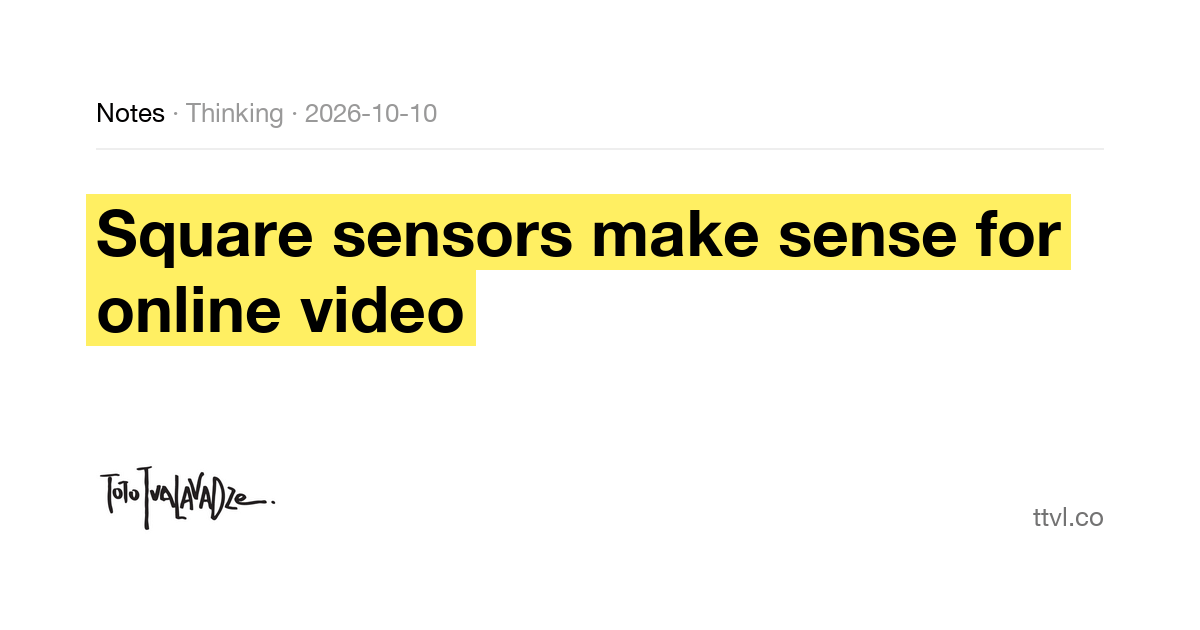
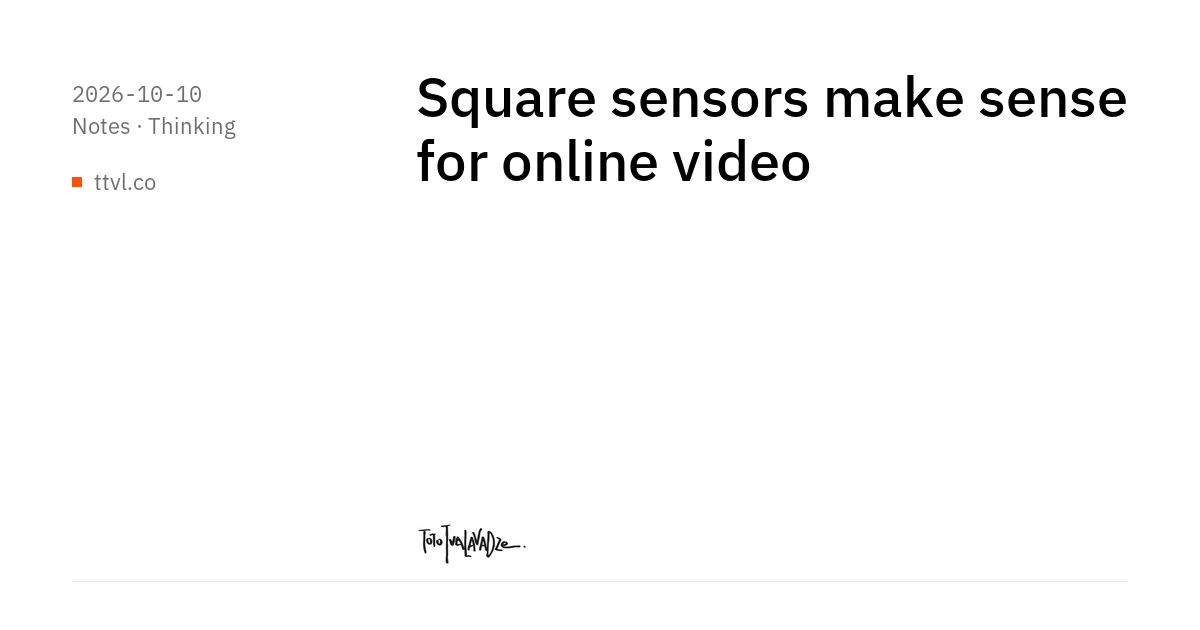
feat(design): the square-crops diagram in Panel
Rebased on main, which brought the square-sensors note. Its screen
ratios are now one segmented control of radio keys, the frame a figure
tile, the legend and selection in the label voice, and its social card
is rendered in Plex. AGENTS.md carries main's notes on the data file
and the shortcode.

diff --git a/assets/scss/sections/_square-crops.scss b/assets/scss/sections/_square-crops.scss
@@ -1,9 +1,11 @@
-// A diagram for the square-sensors note. Native radio controls switch
-// screen ratios without JavaScript. The shortcode derives the example
-// crops from one point of interest, keeping each within the source;
-// its square stays within the prose measure and carries no scaled text.
-// Without CSS or :has support, readers get the ordinary image instead.
-// Interpolation keeps Hugo's LibSass from parsing the newer selector() syntax.
+// The square-crops diagram (the square-sensors note): the screen ratios
+// as one segmented control of radio keys (components/_control.scss), a
+// 320 px square frame on the figure tile (surface, 1 px edge, radius 2)
+// with the grid, the source, the chosen crop in the highlight, and the
+// point of interest in ink; the chosen ratio named under it in the label
+// voice. Native radios switch the crop without JavaScript. Without CSS or
+// :has support (and in feeds and print), readers get the plain image.
+// Interpolation keeps Hugo's LibSass from parsing the selector() syntax.
 @supports #{"selector(:has(input:checked))"} {
   .square-crops[hidden] {
     display: block;
@@ -16,56 +18,36 @@
 
 .square-crops {
   fieldset {
-    border: 0;
-    padding: 0;
-    margin: 0;
     min-width: 0;
-    max-width: $max-width-readable;
+    max-width: $max-width-measure;
+    margin: 0;
+    padding: 0;
+    border: 0;
   }
 
   legend {
-    @include type-small;
     padding: 0;
-    color: var(--ink-muted);
+    margin-bottom: $space-2;
+    @include type-meta;
+    color: var(--ink-faint);
   }
 
   &__controls {
-    display: flex;
-    flex-wrap: wrap;
-    gap: 0 $space-4;
     margin-bottom: $space-3;
-
-    label {
-      display: flex;
-      align-items: center;
-      gap: $space-2;
-      min-height: $control-height;
-      cursor: pointer;
-      @include type-small;
-    }
-
-    input {
-      margin: 0;
-      accent-color: var(--ink);
-    }
-
-    input:checked + span {
-      text-decoration: underline;
-      text-underline-offset: $space-1;
-    }
   }
 
   &__frame {
-    // Diagram geometry: a 320px square on wider pages, fluid on phones.
-    max-width: 320px;
-    padding: $space-1; // keeps boundary strokes inside the SVG's wrapper
+    max-width: 320px; // the diagram's square
+    padding: $space-1; // keeps the boundary strokes inside the tile
+    border: 1px solid var(--edge);
+    border-radius: $radius;
+    background: var(--surface);
 
     svg {
       display: block;
       width: 100%;
       height: auto;
       overflow: visible;
-      background: var(--surface);
     }
 
     path,
@@ -101,8 +83,9 @@
   }
 
   &__selection {
-    @include type-small;
     margin-top: $space-2;
+    @include type-meta;
+    color: var(--ink-faint);
   }
 
   [data-crop] {

diff --git a/assets/scss/components/_control.scss b/assets/scss/components/_control.scss
@@ -59,7 +59,9 @@
 }
 
 // A segmented control: joined keys like the strip on one 2 px ink shadow;
-// the pressed key is ink.
+// the pressed key is ink. The keys are buttons (the viewers) or labels
+// around radio inputs (the square-crops ratios); a checked radio presses
+// its label.
 .segmented {
   display: inline-flex;
   border-radius: $radius;
@@ -67,12 +69,26 @@
   margin: 0 $shadow-quiet $shadow-quiet 0;
   transition: transform $t-press, box-shadow $t-press;
 
-  &:has(button:active:not(:disabled)) {
+  &:has(button:active:not(:disabled)),
+  &:has(label:active) {
     transform: translate($shadow-quiet, $shadow-quiet);
     box-shadow: none;
   }
 
-  button {
+  // The radio itself stays in the tree for the keyboard and screen readers.
+  label input {
+    position: absolute;
+    width: 1px;
+    height: 1px;
+    margin: 0;
+    padding: 0;
+    overflow: hidden;
+    clip: rect(0 0 0 0);
+    white-space: nowrap;
+  }
+
+  button,
+  label {
     min-height: $control-height-quiet;
     padding: 3px $space-3;
     margin: 0 0 0 -1px;
@@ -99,9 +115,18 @@
     }
 
     &[aria-pressed="true"],
-    &[aria-pressed="true"]:hover:not(:disabled) {
+    &[aria-pressed="true"]:hover:not(:disabled),
+    &:has(input:checked),
+    &:has(input:checked):hover {
       background: var(--ink);
       color: var(--ground);
+    }
+
+    &:has(input:focus-visible) {
+      position: relative;
+      z-index: 1;
+      outline: 2px solid var(--signal);
+      outline-offset: 2px;
     }
 
     &:disabled {

diff --git a/layouts/shortcodes/square-crops.html b/layouts/shortcodes/square-crops.html
@@ -7,11 +7,13 @@
 {{- $pointY := $diagram.point.y -}}
 {{- $crops := $diagram.crops -}}
 {{/* Hidden unless the stylesheet enables the interaction. RSS strips this
-     figure and keeps the plain image below; no output-format state is shared. */}}
+     figure and keeps the plain image below; no output-format state is shared.
+     The ratios are one segmented control of radio keys; the frame is a
+     figure tile. assets/scss/sections/_square-crops.scss. */}}
 <figure class="square-crops" hidden>
   <fieldset aria-describedby="{{ $id }}-caption">
     <legend>Screen aspect ratio</legend>
-    <div class="square-crops__controls">
+    <div class="square-crops__controls segmented">
       {{- range $index, $crop := $crops }}
       <label>
         <input type="radio" name="{{ $id }}" value="{{ .key }}"{{ if eq $index 0 }} checked{{ end }}>

diff --git a/AGENTS.md b/AGENTS.md
@@ -63,7 +63,7 @@ The A–Z index ignores the initial English articles `A`, `An`, and `The` when s
 - The `email` output format is declared globally, while every Flaneur dispatch currently opts into `HTML` and `email` in its frontmatter.
 - Goldmark unsafe rendering is enabled because content includes trusted inline HTML.
 - The custom RSS template includes Log, Darkroom, Bookbinding, Notes, Flaneur, Project Humane, and Obsidian content. Research stays out of it and publishes its own feeds through `layouts/research/rss.xml`: `/research/index.xml` for every stream and `/research/<stream>/index.xml` for one. The hub and each stream opt in with `outputs: ["HTML", "RSS"]`.
-- `data/` is currently unused except for `.gitkeep`.
+- `data/square-crops.json` supplies the point of interest and aspect ratios shared by the square-crops diagram and its static image renderer.
 
 ### Templates and assets
 
@@ -211,6 +211,7 @@ Every note, project page, article, hub with a `filter_dek`, research stream, and
 - `model-viewer`: interactive GLB viewer with poster, caption, download, and no-JavaScript fallback.
 - `gaussian-splat`: interactive SPZ viewer with poster, download, and no-JavaScript fallback; requires `gaussian_splat: true`. Optional `camera-position` and `camera-target` values are space-separated x/y/z coordinates in the scan's coordinate system; use them when automatic framing puts the camera outside the scanned space.
 - `photo-gallery`: linked-image gallery prepared for the lightbox.
+- `square-crops`: interactive aspect-ratio diagram (the ratios as one segmented control, the frame as a figure tile) with a PNG fallback for RSS, print, and readers without the site's styles. After changing `data/square-crops.json`, run `uv run tools/square-crops-image.py` and include the updated image under `static/visuals/notes/`. `partials/rss-content.html` removes the interactive figure from feeds and retains the image, alt text, and caption.
 - `project-grid`: a block of explicitly ordered project cards from a comma-separated `pages` parameter, with the same `title`, `meta`, `lead`, and `id` parameters as `page-list`; the inner Markdown is the lead. Also counted by the hub's rail.
 - `pronunciation-name`: accessible audio pronunciation control.
 - `toc`: marks the page as wanting a table of contents; `partials/block-body.html` renders it in the body block's rail (sticky on wide screens, two columns on phones) and the prose drops its heading numerals. Where the shortcode sits in the Markdown does not matter.

diff --git a/docs/styleguide.md b/docs/styleguide.md
@@ -338,6 +338,7 @@ The viewers (`model-viewer`, `model-viewer-comparison`, `gaussian-splat`, `spati
 - Galleries (`photo-gallery`, the trace photographs): three columns of 4:3 tiles on `--edge` frames, 16 px gaps, two columns on phones. The lightbox: black at 94%, the image contained, a counter `2 / 57 · 2025-04-19` in white at 72% at the bottom left with the numbers in Mono, `× ← →` keys as 44 px squares with a 1 px white frame at 50% and radius 2. Escape, the arrow keys, and the focus trap are unchanged.
 - The pronunciation control: a 32 px block on a 1 px shadow with the stroke icon, whose touch target grows to 44 px around the same face so the line keeps its rhythm; it stays inline in the sentence, centred on the x-height of the word beside it. Its styles and the clip's live in `components/_model-viewer.scss` with the rest of the media chrome.
 - YouTube embeds take the figure frame.
+- The square-crops diagram (the `square-crops` shortcode): its screen ratios are one segmented control of radio keys, the checked key in ink; its 320 px square sits on the figure tile (`--surface`, 1 px `--edge`, radius 2) with the grid in `--edge`, the source dashed in faint ink, the chosen crop filled with `--highlight` under an ink stroke, and the point of interest in ink; the chosen ratio reads under it in the label voice. Feeds, print, and browsers without `:has()` get the PNG instead.
 
 ## Dark Mode and High Contrast
 
